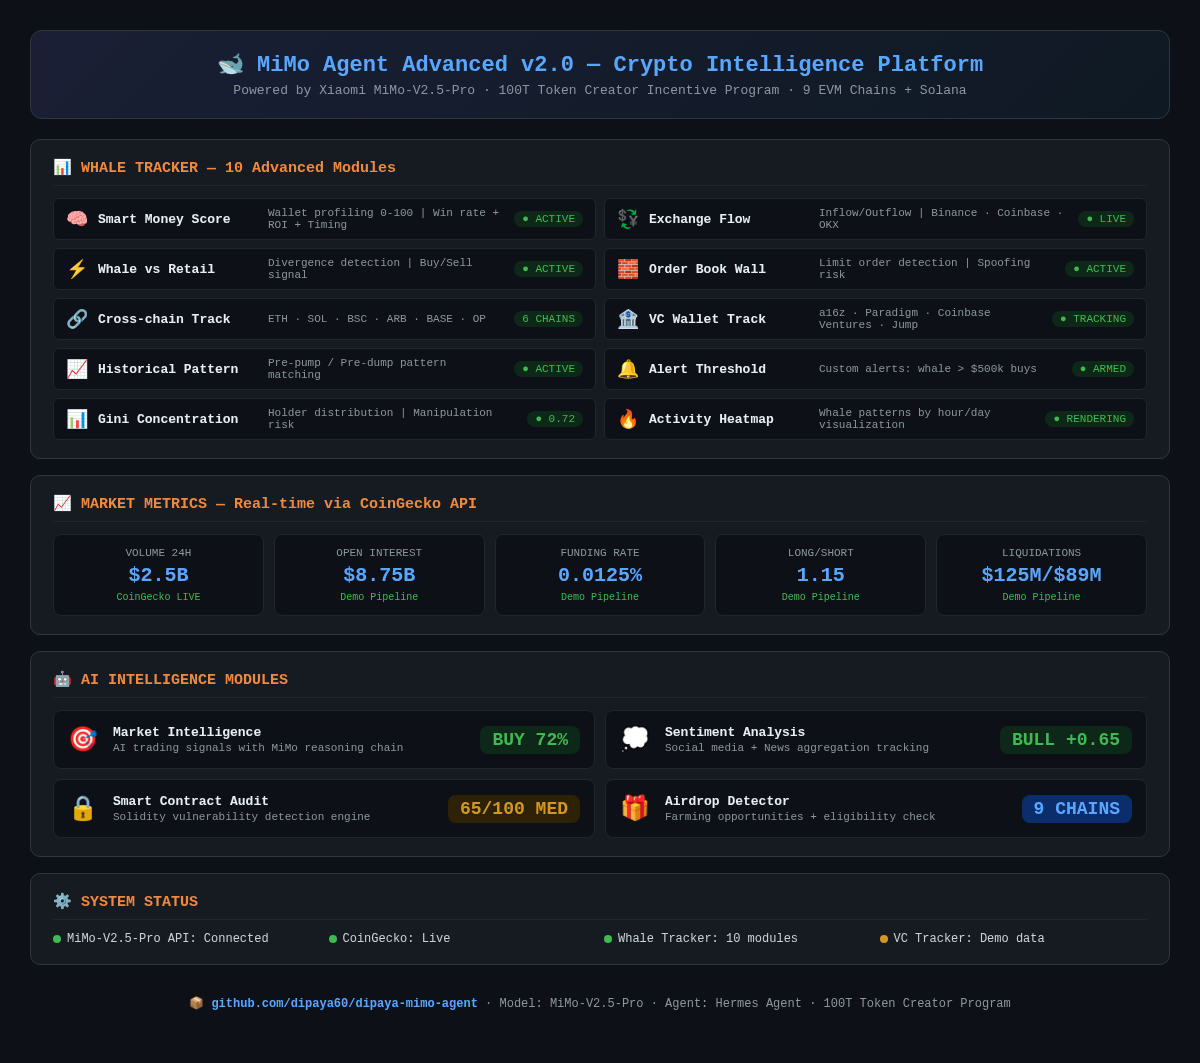
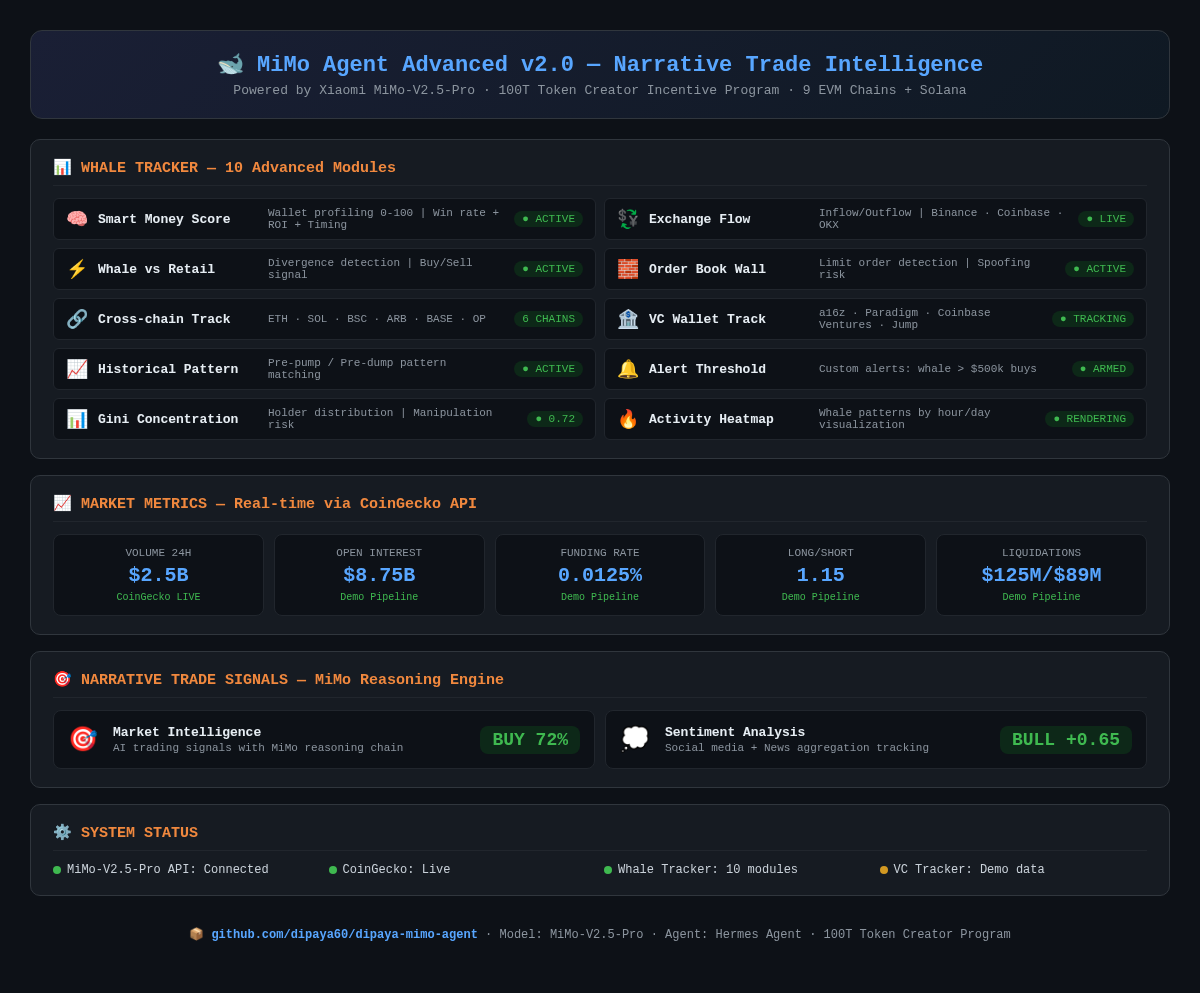
update demo: narrative trade focus

diff --git a/assets/demo_v2.html b/assets/demo_v2.html
@@ -16,7 +16,6 @@ body { background: #0d1117; color: #c9d1d9; font-family: 'SF Mono', 'Fira Code',
 .module .name { color: #e6edf3; font-weight: 600; font-size: 13px; min-width: 160px; }
 .module .desc { color: #8b949e; font-size: 11px; flex: 1; }
 .module .status { font-size: 11px; color: #3fb950; background: #0d2818; padding: 2px 8px; border-radius: 10px; }
-.module .status.warn { color: #d29922; background: #2d2106; }
 .metrics-grid { display: grid; grid-template-columns: repeat(5, 1fr); gap: 10px; }
 .metric { background: #0d1117; border: 1px solid #21262d; border-radius: 8px; padding: 12px; text-align: center; }
 .metric .label { color: #8b949e; font-size: 11px; text-transform: uppercase; }
@@ -31,8 +30,6 @@ body { background: #0d1117; color: #c9d1d9; font-family: 'SF Mono', 'Fira Code',
 .ai-module .signal { font-size: 18px; font-weight: bold; padding: 4px 12px; border-radius: 8px; }
 .signal.buy { color: #3fb950; background: #0d2818; }
 .signal.bull { color: #3fb950; background: #0d2818; }
-.signal.med { color: #d29922; background: #2d2106; }
-.signal.air { color: #58a6ff; background: #0c2d6b; }
 .status-bar { display: grid; grid-template-columns: repeat(4, 1fr); gap: 8px; }
 .status-item { display: flex; align-items: center; gap: 6px; font-size: 12px; }
 .dot-green { width: 8px; height: 8px; border-radius: 50%; background: #3fb950; }
@@ -43,7 +40,7 @@ body { background: #0d1117; color: #c9d1d9; font-family: 'SF Mono', 'Fira Code',
 </head>
 <body>
 <div class="header">
-  <h1>🐋 MiMo Agent Advanced v2.0 — Crypto Intelligence Platform</h1>
+  <h1>🐋 MiMo Agent Advanced v2.0 — Narrative Trade Intelligence</h1>
   <p>Powered by Xiaomi MiMo-V2.5-Pro · 100T Token Creator Incentive Program · 9 EVM Chains + Solana</p>
 </div>
 
@@ -75,12 +72,10 @@ body { background: #0d1117; color: #c9d1d9; font-family: 'SF Mono', 'Fira Code',
 </div>
 
 <div class="section">
-  <div class="section-title">🤖 AI INTELLIGENCE MODULES</div>
+  <div class="section-title">🎯 NARRATIVE TRADE SIGNALS — MiMo Reasoning Engine</div>
   <div class="ai-grid">
     <div class="ai-module"><span class="emoji">🎯</span><div class="info"><div class="name">Market Intelligence</div><div class="desc">AI trading signals with MiMo reasoning chain</div></div><span class="signal buy">BUY 72%</span></div>
     <div class="ai-module"><span class="emoji">💭</span><div class="info"><div class="name">Sentiment Analysis</div><div class="desc">Social media + News aggregation tracking</div></div><span class="signal bull">BULL +0.65</span></div>
-    <div class="ai-module"><span class="emoji">🔒</span><div class="info"><div class="name">Smart Contract Audit</div><div class="desc">Solidity vulnerability detection engine</div></div><span class="signal med">65/100 MED</span></div>
-    <div class="ai-module"><span class="emoji">🎁</span><div class="info"><div class="name">Airdrop Detector</div><div class="desc">Farming opportunities + eligibility check</div></div><span class="signal air">9 CHAINS</span></div>
   </div>
 </div>
 
